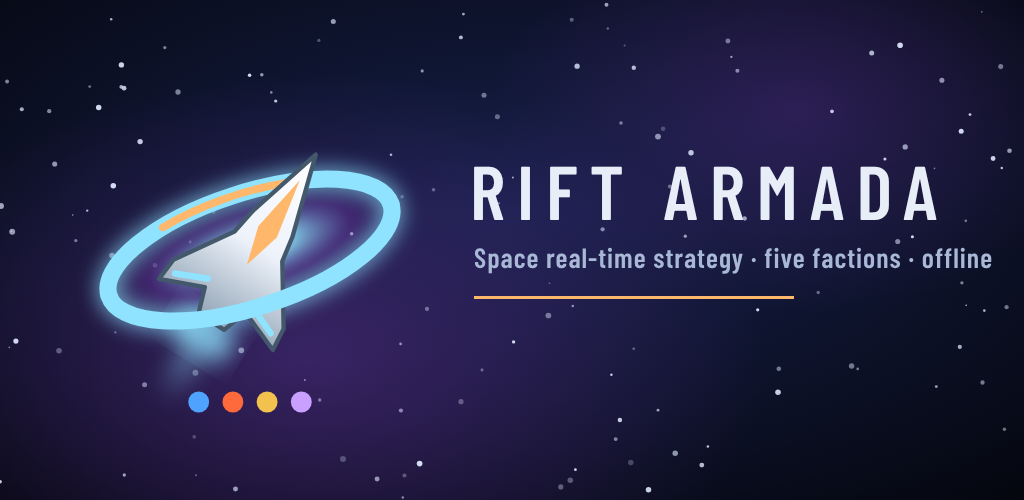
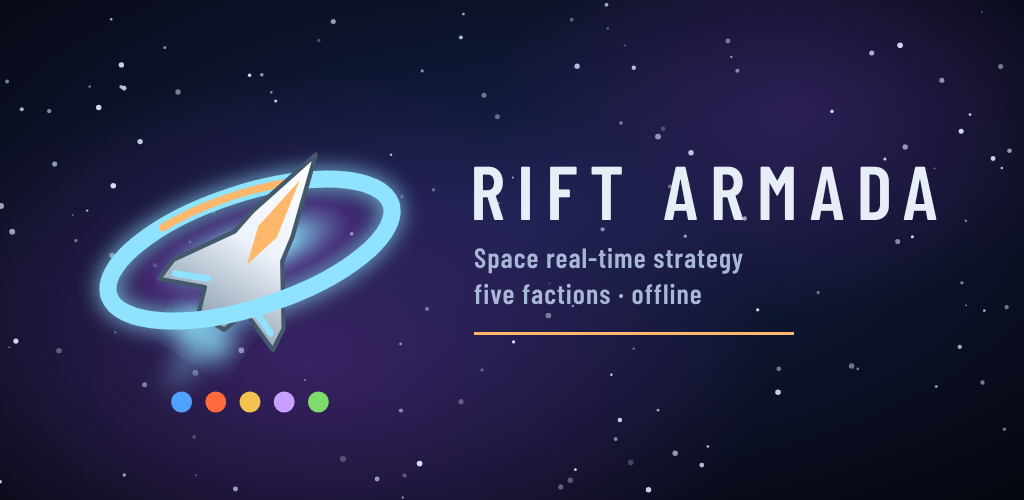
Store: Einträge in sieben Sprachen, Feature-Grafiken je Sprache, fünf Fraktionspunkte, vier Symbolvorschläge, Knopfnamen in Missionstexten angeglichen
Claude-Session: https://claude.ai/code/session_01UDXdnBnoPcrxPHDEUbr4Hw

diff --git a/src/i18n_more.js b/src/i18n_more.js
@@ -3958,7 +3958,7 @@ const LANGS = {
     "Vor vierzig Jahren. Das Imperium beherrscht den Kessel durch das Tornetz der Erbauer. Nur der Mars hat den Toren nie getraut und kämpft für seine Unabhängigkeit.": "Hace cuarenta años. El Imperio domina la Caldera gracias a la red de portales de los Arquitectos. Solo Marte nunca se fió de los portales, y lucha por su independencia.",
     "Leutnant Ilya Voss führt eine Staffel der Imperialen Flotte an das Tor von Calder. Dort soll die Flotte durch das Tor zum Kern des Reichs zurückkehren – doch eine Vorhut der Republik lauert am Tor.": "La teniente Ilya Voss conduce un escuadrón de la Flota Imperial hasta el portal de Calder, donde la flota debe cruzarlo para regresar al corazón del Imperio. Pero una vanguardia de la República acecha junto al portal.",
     "Tippe ein Schiff an, um es zu wählen; ein Tipp auf den Raum schickt es los. Zweimal schnell tippen wählt alle Schiffe dieses Typs auf dem Bildschirm.": "Toca una nave para seleccionarla; toca el espacio vacío para enviarla allí. Toca dos veces una nave para seleccionar todas las de ese tipo en pantalla.",
-    "Die Taste »Auswahl« zieht einen Rahmen um mehrere Schiffe.": "El botón «Seleccionar» te permite trazar un recuadro alrededor de varias naves.",
+    "Die Taste »Auswahl« zieht einen Rahmen um mehrere Schiffe.": "El botón «Selección» te permite trazar un recuadro alrededor de varias naves.",
     "Ein Tipp auf einen Gegner greift ihn an. Lange auf eine Taste drücken zeigt die Erklärung.": "Toca a un enemigo para atacarlo. Mantén pulsado cualquier botón para ver qué hace.",
     "Führe die Staffel zum Tor von Calder": "Lleva el escuadrón al portal de Calder",
     "Vernichte die Vorhut der Republik": "Destruye la vanguardia de la República",
@@ -3970,7 +3970,7 @@ const LANGS = {
     "Tor von Calder": "Portal de Calder",
     "Staffel Voss, hier spricht die Garde. Das Tor von Calder ist frei? Dann bringen Sie uns nach Hause.": "Escuadrón Voss, aquí la Guardia. ¿El portal de Calder está despejado? Entonces llévennos a casa.",
     "Verstanden, Seraph. Staffel, Formation halten – zum Tor.": "Recibido, Seraph. Escuadrón, mantengan la formación. Rumbo al portal.",
-    "Tipp: Wähle die Staffel mit der Taste »Auswahl« und einem Rahmen, dann tippe in Richtung Tor.": "Consejo: usa el botón «Seleccionar» para trazar un recuadro alrededor del escuadrón y luego toca en dirección al portal.",
+    "Tipp: Wähle die Staffel mit der Taste »Auswahl« und einem Rahmen, dann tippe in Richtung Tor.": "Consejo: usa el botón «Selección» para trazar un recuadro alrededor del escuadrón y luego toca en dirección al portal.",
     "Kontakt! Republik-Schiffe am Tor. Sie haben uns erwartet.": "¡Contacto! Naves de la República en el portal. Nos estaban esperando.",
     "Weg frei. Garde, Sie zuerst.": "Camino despejado. Guardia, ustedes primero.",
     "Seraph. Hier spricht der Kaiser. Schließen Sie das Tor. Alle Tore. Jetzt.": "Seraph. Aquí el Emperador. Cierre el portal. Todos los portales. Ahora.",
@@ -4215,8 +4215,8 @@ const LANGS = {
     "Wren antippen (sie leuchtet grün eingekreist), dann die Markierung.": "Toca la Wren (está rodeada por un círculo verde) y luego toca el marcador.",
     "Gut geflogen. Jetzt die Zielscheibe: Mit gewählter Wren den Gegner antippen heißt angreifen.": "Buen vuelo. Ahora el blanco de práctica: con la Wren seleccionada, toca al enemigo para atacar.",
     "Wren wählen, dann die rote Zielscheibe antippen.": "Selecciona la Wren y luego toca el blanco de práctica rojo.",
-    "Drei Lancer sind eingetroffen. Tippe unten rechts auf »Auswahl« und ziehe einen Rahmen um alle drei. Dann tippe auf die Markierung.": "Han llegado tres Lancer. Toca «Seleccionar» abajo a la derecha y traza un recuadro alrededor de los tres. Luego toca el marcador.",
-    "»Auswahl« antippen, mit dem Finger einen Rahmen um die Lancer ziehen, dann die Markierung.": "Toca «Seleccionar», traza con el dedo un recuadro alrededor de los Lancer y luego toca el marcador.",
+    "Drei Lancer sind eingetroffen. Tippe unten rechts auf »Auswahl« und ziehe einen Rahmen um alle drei. Dann tippe auf die Markierung.": "Han llegado tres Lancer. Toca «Selección» abajo a la derecha y traza un recuadro alrededor de los tres. Luego toca el marcador.",
+    "»Auswahl« antippen, mit dem Finger einen Rahmen um die Lancer ziehen, dann die Markierung.": "Toca «Selección», traza con el dedo un recuadro alrededor de los Lancer y luego toca el marcador.",
     "»Vorstoß« schickt die Auswahl los und greift alles auf dem Weg an. Lancer gewählt lassen, »Vorstoß«, dann hinter die Zielgruppe tippen.": "«Avanzar» envía tu selección y ataca todo lo que encuentre por el camino. Mantén seleccionados los Lancer, toca «Avanzar» y luego toca detrás del grupo objetivo.",
     "Lancer wählen, »Vorstoß« antippen, dann die Zielgruppe.": "Selecciona los Lancer, toca «Avanzar» y luego el grupo objetivo.",
     "Oben rechts die Minikarte: Antippen springt dorthin, rote Ringe zeigen Angriffe. Zwei Finger zoomen die Karte, ein Finger verschiebt sie.": "Arriba a la derecha está el minimapa: tócalo para saltar a ese punto; los anillos rojos señalan ataques. Con dos dedos haces zoom en el mapa, con uno lo desplazas.",
@@ -6621,7 +6621,7 @@ const LANGS = {
     "Vor vierzig Jahren. Das Imperium beherrscht den Kessel durch das Tornetz der Erbauer. Nur der Mars hat den Toren nie getraut und kämpft für seine Unabhängigkeit.": "Quarant'anni fa. L'Impero domina la Caldera attraverso la rete di portali degli Artefici. Solo Marte non si è mai fidato dei portali e combatte per la propria indipendenza.",
     "Leutnant Ilya Voss führt eine Staffel der Imperialen Flotte an das Tor von Calder. Dort soll die Flotte durch das Tor zum Kern des Reichs zurückkehren – doch eine Vorhut der Republik lauert am Tor.": "Il tenente Ilya Voss guida uno squadrone della Flotta Imperiale al Portale di Calder, dove la flotta deve attraversarlo per tornare nel cuore dell'Impero – ma un'avanguardia della Repubblica è in agguato presso il portale.",
     "Tippe ein Schiff an, um es zu wählen; ein Tipp auf den Raum schickt es los. Zweimal schnell tippen wählt alle Schiffe dieses Typs auf dem Bildschirm.": "Tocca una nave per selezionarla; tocca lo spazio vuoto per mandarla lì. Un doppio tocco su una nave seleziona tutte le navi di quel tipo sullo schermo.",
-    "Die Taste »Auswahl« zieht einen Rahmen um mehrere Schiffe.": "Il pulsante «Selezione» ti permette di tracciare un riquadro attorno a più navi.",
+    "Die Taste »Auswahl« zieht einen Rahmen um mehrere Schiffe.": "Il pulsante «Seleziona» ti permette di tracciare un riquadro attorno a più navi.",
     "Ein Tipp auf einen Gegner greift ihn an. Lange auf eine Taste drücken zeigt die Erklärung.": "Tocca un nemico per attaccarlo. Tieni premuto un pulsante per vedere a cosa serve.",
     "Führe die Staffel zum Tor von Calder": "Guida lo squadrone al Portale di Calder",
     "Vernichte die Vorhut der Republik": "Distruggi l'avanguardia della Repubblica",
@@ -6633,7 +6633,7 @@ const LANGS = {
     "Tor von Calder": "Portale di Calder",
     "Staffel Voss, hier spricht die Garde. Das Tor von Calder ist frei? Dann bringen Sie uns nach Hause.": "Squadrone Voss, qui la Guardia. Il Portale di Calder è libero? Allora riportateci a casa.",
     "Verstanden, Seraph. Staffel, Formation halten – zum Tor.": "Ricevuto, Seraph. Squadrone, mantenere la formazione – rotta sul portale.",
-    "Tipp: Wähle die Staffel mit der Taste »Auswahl« und einem Rahmen, dann tippe in Richtung Tor.": "Suggerimento: usa il pulsante «Selezione» per tracciare un riquadro attorno allo squadrone, poi tocca in direzione del portale.",
+    "Tipp: Wähle die Staffel mit der Taste »Auswahl« und einem Rahmen, dann tippe in Richtung Tor.": "Suggerimento: usa il pulsante «Seleziona» per tracciare un riquadro attorno allo squadrone, poi tocca in direzione del portale.",
     "Kontakt! Republik-Schiffe am Tor. Sie haben uns erwartet.": "Contatto! Navi della Repubblica al portale. Ci stavano aspettando.",
     "Weg frei. Garde, Sie zuerst.": "Via libera. Guardia, prego, prima voi.",
     "Seraph. Hier spricht der Kaiser. Schließen Sie das Tor. Alle Tore. Jetzt.": "Seraph. Qui parla l'Imperatore. Chiudi il portale. Tutti i portali. Ora.",
@@ -6878,8 +6878,8 @@ const LANGS = {
     "Wren antippen (sie leuchtet grün eingekreist), dann die Markierung.": "Tocca la Wren (è cerchiata in verde), poi il segnalino.",
     "Gut geflogen. Jetzt die Zielscheibe: Mit gewählter Wren den Gegner antippen heißt angreifen.": "Bel volo. Ora il bersaglio d'addestramento: con la Wren selezionata, tocca il nemico per attaccare.",
     "Wren wählen, dann die rote Zielscheibe antippen.": "Seleziona la Wren, poi tocca il bersaglio rosso.",
-    "Drei Lancer sind eingetroffen. Tippe unten rechts auf »Auswahl« und ziehe einen Rahmen um alle drei. Dann tippe auf die Markierung.": "Sono arrivati tre Lancer. Tocca «Selezione» in basso a destra e traccia un riquadro attorno a tutti e tre. Poi tocca il segnalino.",
-    "»Auswahl« antippen, mit dem Finger einen Rahmen um die Lancer ziehen, dann die Markierung.": "Tocca «Selezione», traccia con il dito un riquadro attorno ai Lancer, poi tocca il segnalino.",
+    "Drei Lancer sind eingetroffen. Tippe unten rechts auf »Auswahl« und ziehe einen Rahmen um alle drei. Dann tippe auf die Markierung.": "Sono arrivati tre Lancer. Tocca «Seleziona» in basso a destra e traccia un riquadro attorno a tutti e tre. Poi tocca il segnalino.",
+    "»Auswahl« antippen, mit dem Finger einen Rahmen um die Lancer ziehen, dann die Markierung.": "Tocca «Seleziona», traccia con il dito un riquadro attorno ai Lancer, poi tocca il segnalino.",
     "»Vorstoß« schickt die Auswahl los und greift alles auf dem Weg an. Lancer gewählt lassen, »Vorstoß«, dann hinter die Zielgruppe tippen.": "«Avanza» manda avanti la selezione e attacca tutto ciò che incontra lungo la strada. Tieni selezionati i Lancer, tocca «Avanza», poi tocca dietro il gruppo bersaglio.",
     "Lancer wählen, »Vorstoß« antippen, dann die Zielgruppe.": "Seleziona i Lancer, tocca «Avanza», poi il gruppo bersaglio.",
     "Oben rechts die Minikarte: Antippen springt dorthin, rote Ringe zeigen Angriffe. Zwei Finger zoomen die Karte, ein Finger verschiebt sie.": "In alto a destra c'è la minimappa: toccala per spostarti lì, gli anelli rossi segnalano gli attacchi. Con due dita ingrandisci la mappa, con un dito la sposti.",

diff --git a/tools/appicons.js b/tools/appicons.js
@@ -7,7 +7,7 @@
 const fs = require('fs'), path = require('path');
 const { chromium } = require('playwright');
 const root = path.join(__dirname, '..'), res = path.join(root, 'app/android/app/src/main/res'), store = path.join(root, 'store/graphics');
-const C = { bg0: '#16204a', bg1: '#04060d', neb: '#5b2f8f', ring: '#8fe3ff', hot: '#ffb86b', hull: '#eef3fb', hullLo: '#93a5b6', ink: '#e8eef8', facs: ['#4fa3ff', '#ff6a3d', '#f2c14e', '#c9a0ff'] };
+const C = { bg0: '#16204a', bg1: '#04060d', neb: '#5b2f8f', ring: '#8fe3ff', hot: '#ffb86b', hull: '#eef3fb', hullLo: '#93a5b6', ink: '#e8eef8', facs: ['#4fa3ff', '#ff6a3d', '#f2c14e', '#c9a0ff', '#7ddc6b'] };
 let uid = 0;
 /* Sterne, fest verteilt */
 function stars(W, H, n, seed) {
@@ -48,7 +48,7 @@ function motif(white) {
   s += `</g>`;
   s += `<g transform="rotate(-18)">${ell(front)}</g>`;
   /* Fraktionen */
-  C.facs.forEach((c, i) => { s += `<circle cx="${-27 + i * 18}" cy="80" r="5.5" fill="${white ? '#fff' : c}"/>`; });
+  C.facs.forEach((c, i) => { s += `<circle cx="${-36 + i * 18}" cy="80" r="5.5" fill="${white ? '#fff' : c}"/>`; });
   return s;
 }
 const mark = (cx, cy, size, white) => `<g transform="translate(${cx} ${cy}) scale(${size / 200})">${motif(white)}</g>`;
@@ -77,10 +77,14 @@ for (const [d, [w, h]] of Object.entries(SPL)) {
 add(`${res}/drawable/splash.jpg`, 480, 320, splash(480, 320));
 /* Store: Symbol 512 (vollflächig, Google rundet selbst) und Feature-Grafik 1024 × 500 */
 add(`${store}/icon-512.png`, 512, 512, ground(512, 512) + mark(256, 256, 440));
-const feature = sub => ground(1024, 500) + mark(250, 250, 380) + word(470, 220, 76, 'RIFT ARMADA', C.ink, 'start', 12) +
-  word(474, 268, 28, sub, '#a9b8d6', 'start', 1) + `<rect x="474" y="296" width="320" height="3" fill="${C.hot}"/>`;
+/* lange Untertitel (fr, es, pl …) auf zwei Zeilen: erster Teil, dann der Rest */
+const feature = sub => { const parts = sub.split(' · '), two = sub.length > 46, l1 = two ? parts[0] : sub, l2 = two ? parts.slice(1).join(' · ') : '';
+  return ground(1024, 500) + mark(250, 250, 380) + word(470, 220, 76, 'RIFT ARMADA', C.ink, 'start', 12) +
+  word(474, 268, 28, l1, '#a9b8d6', 'start', 1) + (two ? word(474, 304, 28, l2, '#a9b8d6', 'start', 1) : '') + `<rect x="474" y="${two ? 332 : 296}" width="320" height="3" fill="${C.hot}"/>`; };
 add(`${store}/feature-1024x500.png`, 1024, 500, feature('Weltraum-Echtzeitstrategie · fünf Fraktionen · offline'));
 add(`${store}/feature-1024x500-en.png`, 1024, 500, feature('Space real-time strategy · five factions · offline'));
+for (const [lg, sub] of [['fr', 'Stratégie spatiale en temps réel · cinq factions · hors ligne'], ['es', 'Estrategia espacial en tiempo real · cinco facciones · sin conexión'], ['it', 'Strategia spaziale in tempo reale · cinque fazioni · offline'], ['pt', 'Estratégia espacial em tempo real · cinco facções · offline'], ['pl', 'Kosmiczna strategia czasu rzeczywistego · pięć frakcji · offline']])
+  add(`${store}/feature-1024x500-${lg}.png`, 1024, 500, feature(sub));
 (async () => {
   const b = await chromium.launch({ executablePath: '/opt/pw-browsers/chromium-1194/chrome-linux/chrome', args: ['--no-sandbox'] });
   const p = await b.newPage();

diff --git a/store/listing-fr.md b/store/listing-fr.md
@@ -36,6 +36,6 @@ ET AUSSI
 • Multijoueur directement d'appareil à appareil – sans serveur, sans compte (1 contre 1, coopération contre l'IA, 2 contre 2, Quarantine)
 • Entièrement en 3D avec des modèles procéduraux, résolution adaptée à ton appareil (bascule possible en 2D)
 • Exploration automatique, trois emplacements de sauvegarde
-• Français, anglais et allemand
+• Sept langues : français, anglais, allemand, espagnol, italien, portugais (Brésil), polonais
 
 Un univers inventé avec des factions fictives. L'application ne collecte aucune donnée.

diff --git a/store/listing-pt.md b/store/listing-pt.md
@@ -36,6 +36,6 @@ MAIS
 • Multijogador direto de dispositivo para dispositivo – sem servidor, sem conta (1 contra 1, cooperativo contra a IA, 2 contra 2, Quarantine)
 • Totalmente em 3D com modelos procedurais, resolução que se adapta ao seu dispositivo (pode ser trocado para 2D)
 • Exploração automática, três espaços de salvamento
-• Inglês, alemão e português (Brasil)
+• Sete idiomas: português (Brasil), inglês, alemão, francês, espanhol, italiano e polonês
 
 Um universo inventado com facções fictícias. O app não coleta nenhum dado.

diff --git a/store/listing-pl.md b/store/listing-pl.md
@@ -36,6 +36,6 @@ WIĘCEJ
 • Gra wieloosobowa bezpośrednio między urządzeniami – bez serwera, bez konta (1 na 1, kooperacja przeciw SI, 2 na 2, Quarantine)
 • Pełne 3D z proceduralnymi modelami, rozdzielczość dopasowuje się do urządzenia (można przełączyć na 2D)
 • Automatyczny zwiad, trzy sloty zapisu
-• Język polski, angielski i niemiecki
+• Siedem języków: polski, angielski, niemiecki, francuski, hiszpański, włoski, portugalski (Brazylia)
 
 Wymyślony wszechświat z fikcyjnymi frakcjami. Aplikacja nie zbiera żadnych danych.

diff --git a/store/listing-es.md b/store/listing-es.md
@@ -36,6 +36,6 @@ Y MÁS
 • Multijugador directo de dispositivo a dispositivo, sin servidor y sin cuenta (1 contra 1, cooperativo contra la IA, 2 contra 2, Quarantine)
 • Totalmente en 3D con modelos procedurales; la resolución se adapta a tu dispositivo (se puede cambiar a 2D)
 • Exploración automática, tres ranuras de guardado
-• En español, inglés y alemán
+• Siete idiomas: español, inglés, alemán, francés, italiano, portugués (Brasil) y polaco
 
 Un universo inventado con facciones ficticias. La aplicación no recoge ningún dato.

diff --git a/store/listing-it.md b/store/listing-it.md
@@ -36,6 +36,6 @@ E ANCORA
 • Multigiocatore direttamente da dispositivo a dispositivo – nessun server, nessun account (1 contro 1, cooperativa contro l'IA, 2 contro 2, Quarantine)
 • Completamente in 3D con modelli procedurali, la risoluzione si adatta al tuo dispositivo (commutabile in 2D)
 • Esplorazione automatica, tre slot di salvataggio
-• Inglese e tedesco
+• Sette lingue: italiano, inglese, tedesco, francese, spagnolo, portoghese (Brasile), polacco
 
 Un universo inventato con fazioni immaginarie. L'app non raccoglie alcun dato.

diff --git a/store/listing-de.md b/store/listing-de.md
@@ -36,6 +36,6 @@ MEHR
 • Mehrspieler direkt von Gerät zu Gerät – ohne Server, ohne Konto (1 gegen 1, gemeinsam gegen die KI, 2 gegen 2, Quarantine)
 • Vollständig in 3D mit prozeduralen Modellen, passt die Auflösung selbst an das Gerät an (umschaltbar auf 2D)
 • Automatisches Erkunden, drei Speicherplätze
-• Deutsch und Englisch
+• Sieben Sprachen: Deutsch, Englisch, Französisch, Spanisch, Italienisch, Portugiesisch (Brasilien), Polnisch
 
 Ein frei erfundenes Universum mit erfundenen Fraktionen. Die App erhebt keine Daten.

diff --git a/store/listing-en.md b/store/listing-en.md
@@ -36,6 +36,6 @@ MORE
 • Multiplayer directly from device to device – no server, no account (1 vs 1, co-op against the AI, 2 vs 2, Quarantine)
 • Fully 3D with procedural models, resolution adapts to your device (switchable to 2D)
 • Auto-explore, three save slots
-• English and German
+• Seven languages: English, German, French, Spanish, Italian, Portuguese (Brazil), Polish
 
 An invented universe with fictional factions. The app collects no data.
